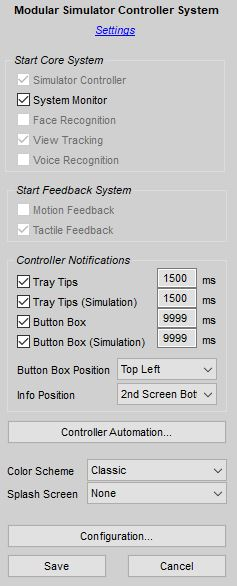
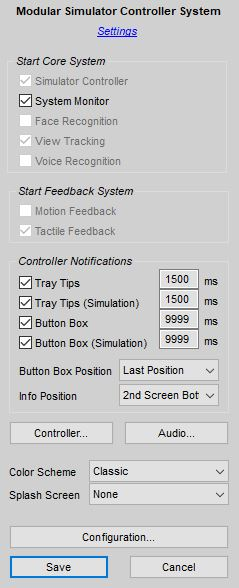
New settings editor layout Part 2

diff --git a/Docs/Using Simulator Controller.md b/Docs/Using Simulator Controller.md
@@ -59,7 +59,7 @@ Some applications of Simulator Controller show you the progress of long-running 
 
 ### Configuration of the Controller Mode automation
 
-If you click on then button "Controller Automation...", a new dialog will open up, where you can select predefined Modes for your connected hardware controller.
+If you click on the button "Controller...", a new dialog will open up, where you can select predefined Modes for your connected hardware controller.
 
 ![](https://github.com/SeriousOldMan/Simulator-Controller/blob/main/Docs/Images/Automation%20Editor.JPG)
 
@@ -366,7 +366,7 @@ There is also the possibility to trigger actions in Simulator Controller from ot
 
 ### Audio Routing
 
-Simulator Controller allows you to direct sound output (for example the voices of the different Race Assistants) to different audio devices, as long as the additional software [SoX](http://sox.sourceforge.net/) is installed and configured. This is mainly of interest to those of you, who are streaming their races, or when you want maximum immersion by directing car sound to a 5.1 sound system, but the assistant voices to your headset. To configure the audio routes, click on the "Audio..." button in the "Controller Automation" window.
+Simulator Controller allows you to direct sound output (for example the voices of the different Race Assistants) to different audio devices, as long as the additional software [SoX](http://sox.sourceforge.net/) and [NirCmd](https://www.nirsoft.net/utils/nircmd.html) are installed and configured. This is mainly of interest to those of you, who are streaming their races, or when you want maximum immersion by directing car sound to a 5.1 sound system, but the assistant voices to your headset. To configure the audio routes, click on the "Audio..." button in the [Settings window](https://github.com/SeriousOldMan/Simulator-Controller/wiki/Using-Simulator-Controller#customizing-startup-configuration).
 
 ![](https://github.com/SeriousOldMan/Simulator-Controller/blob/main/Docs/Images/Automation%20Editor%202.JPG)
 
